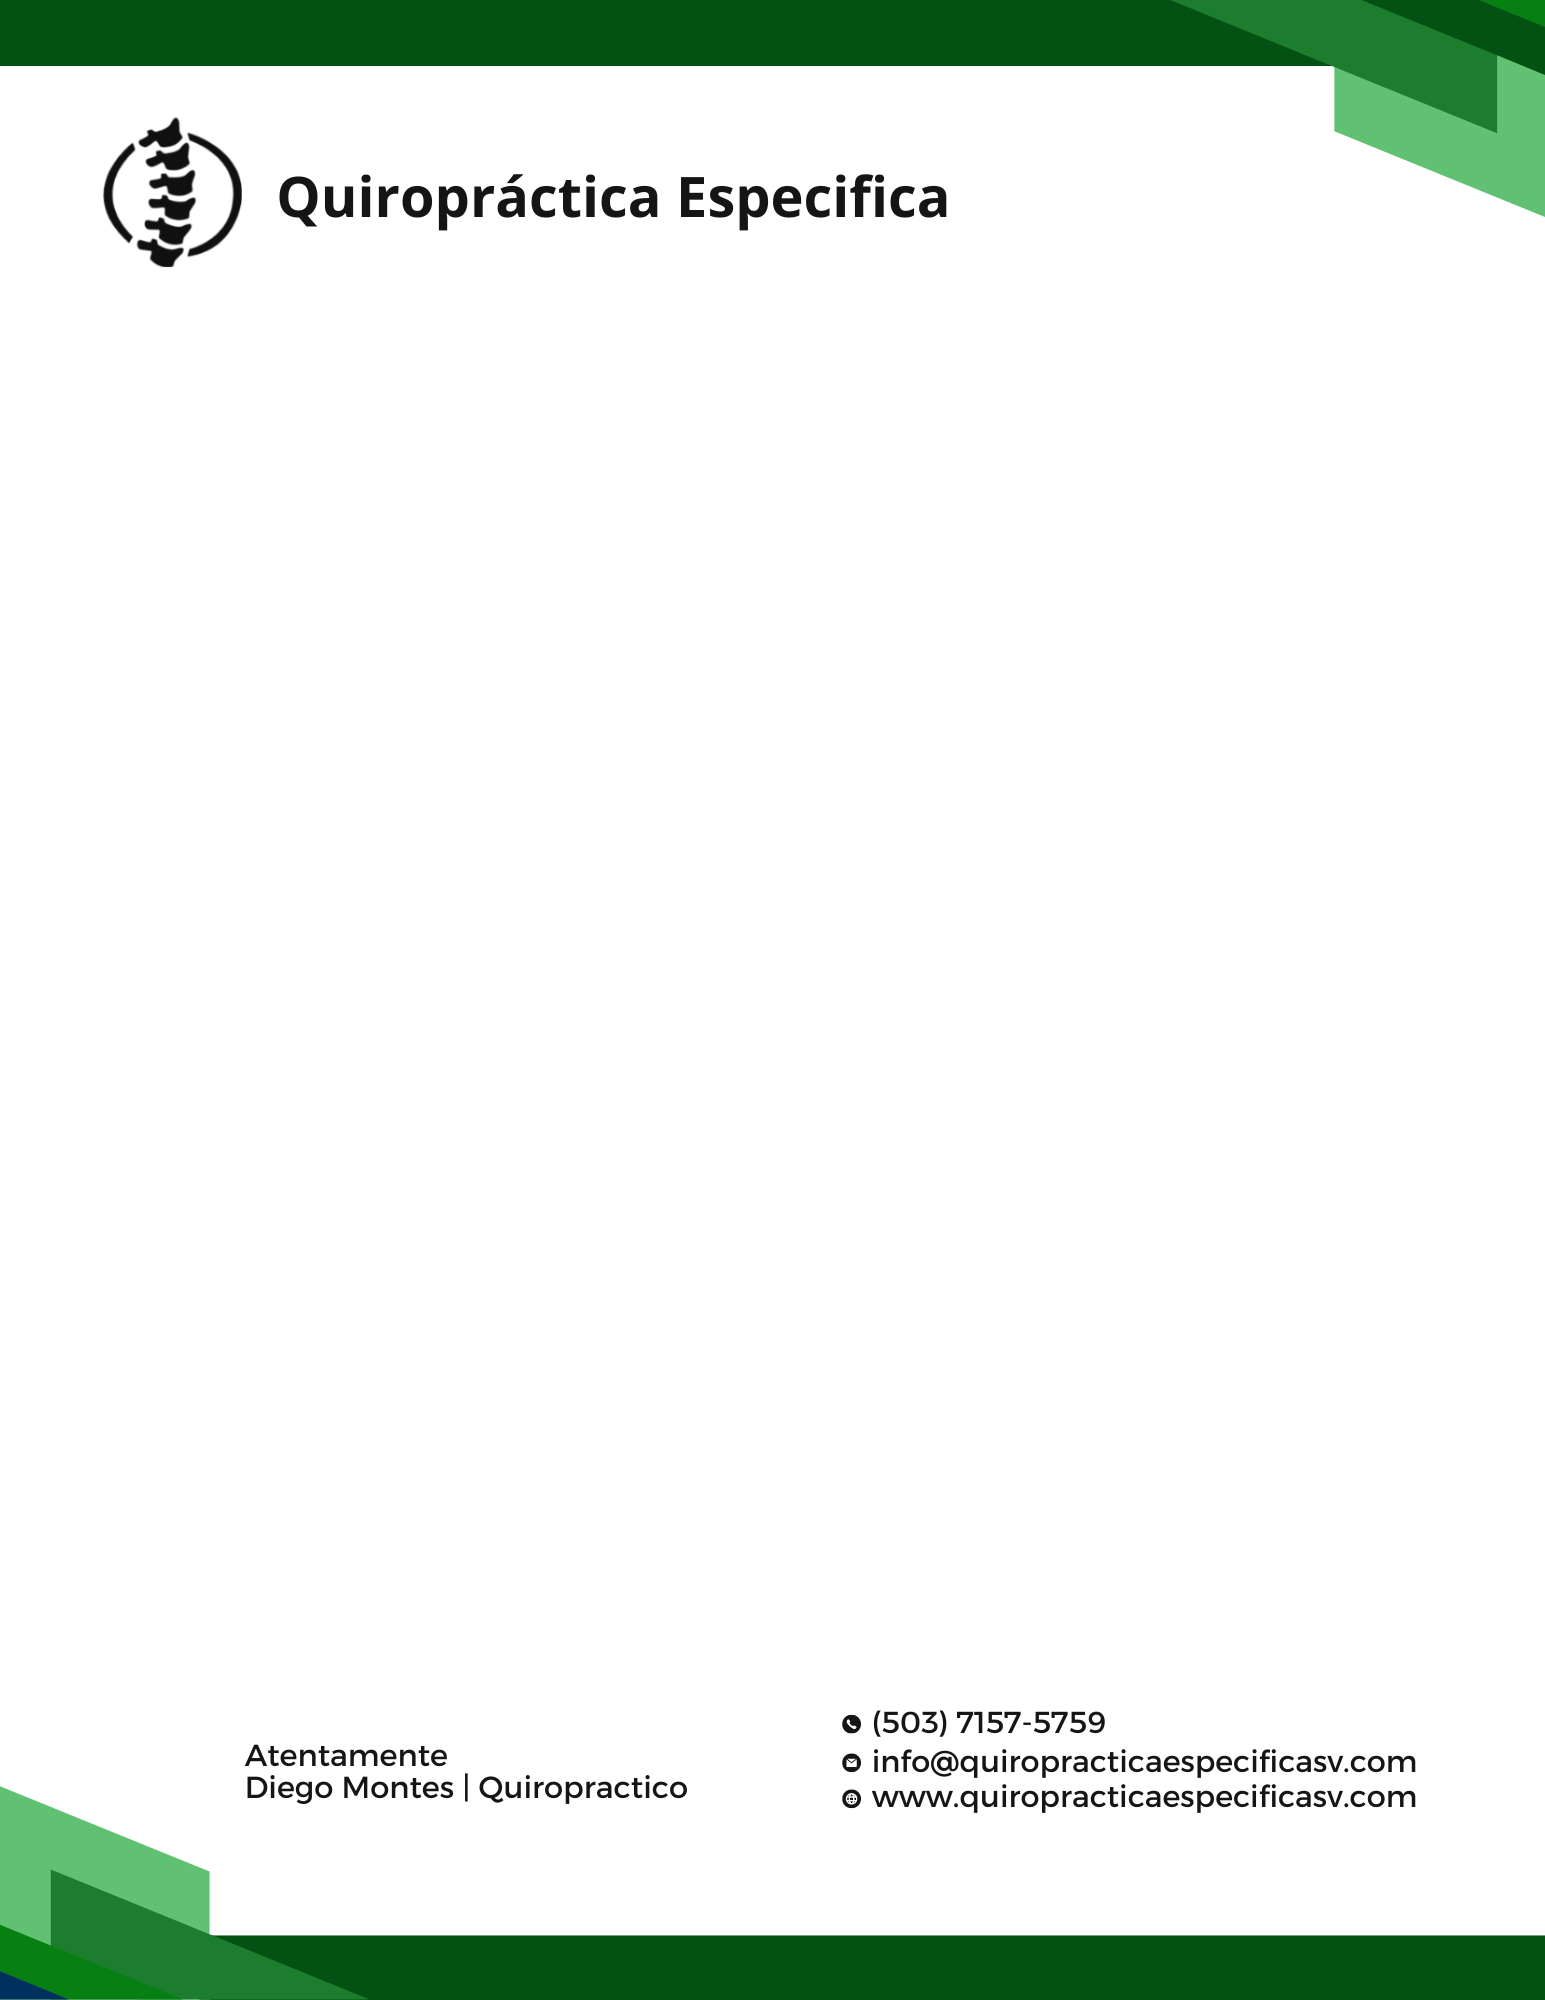
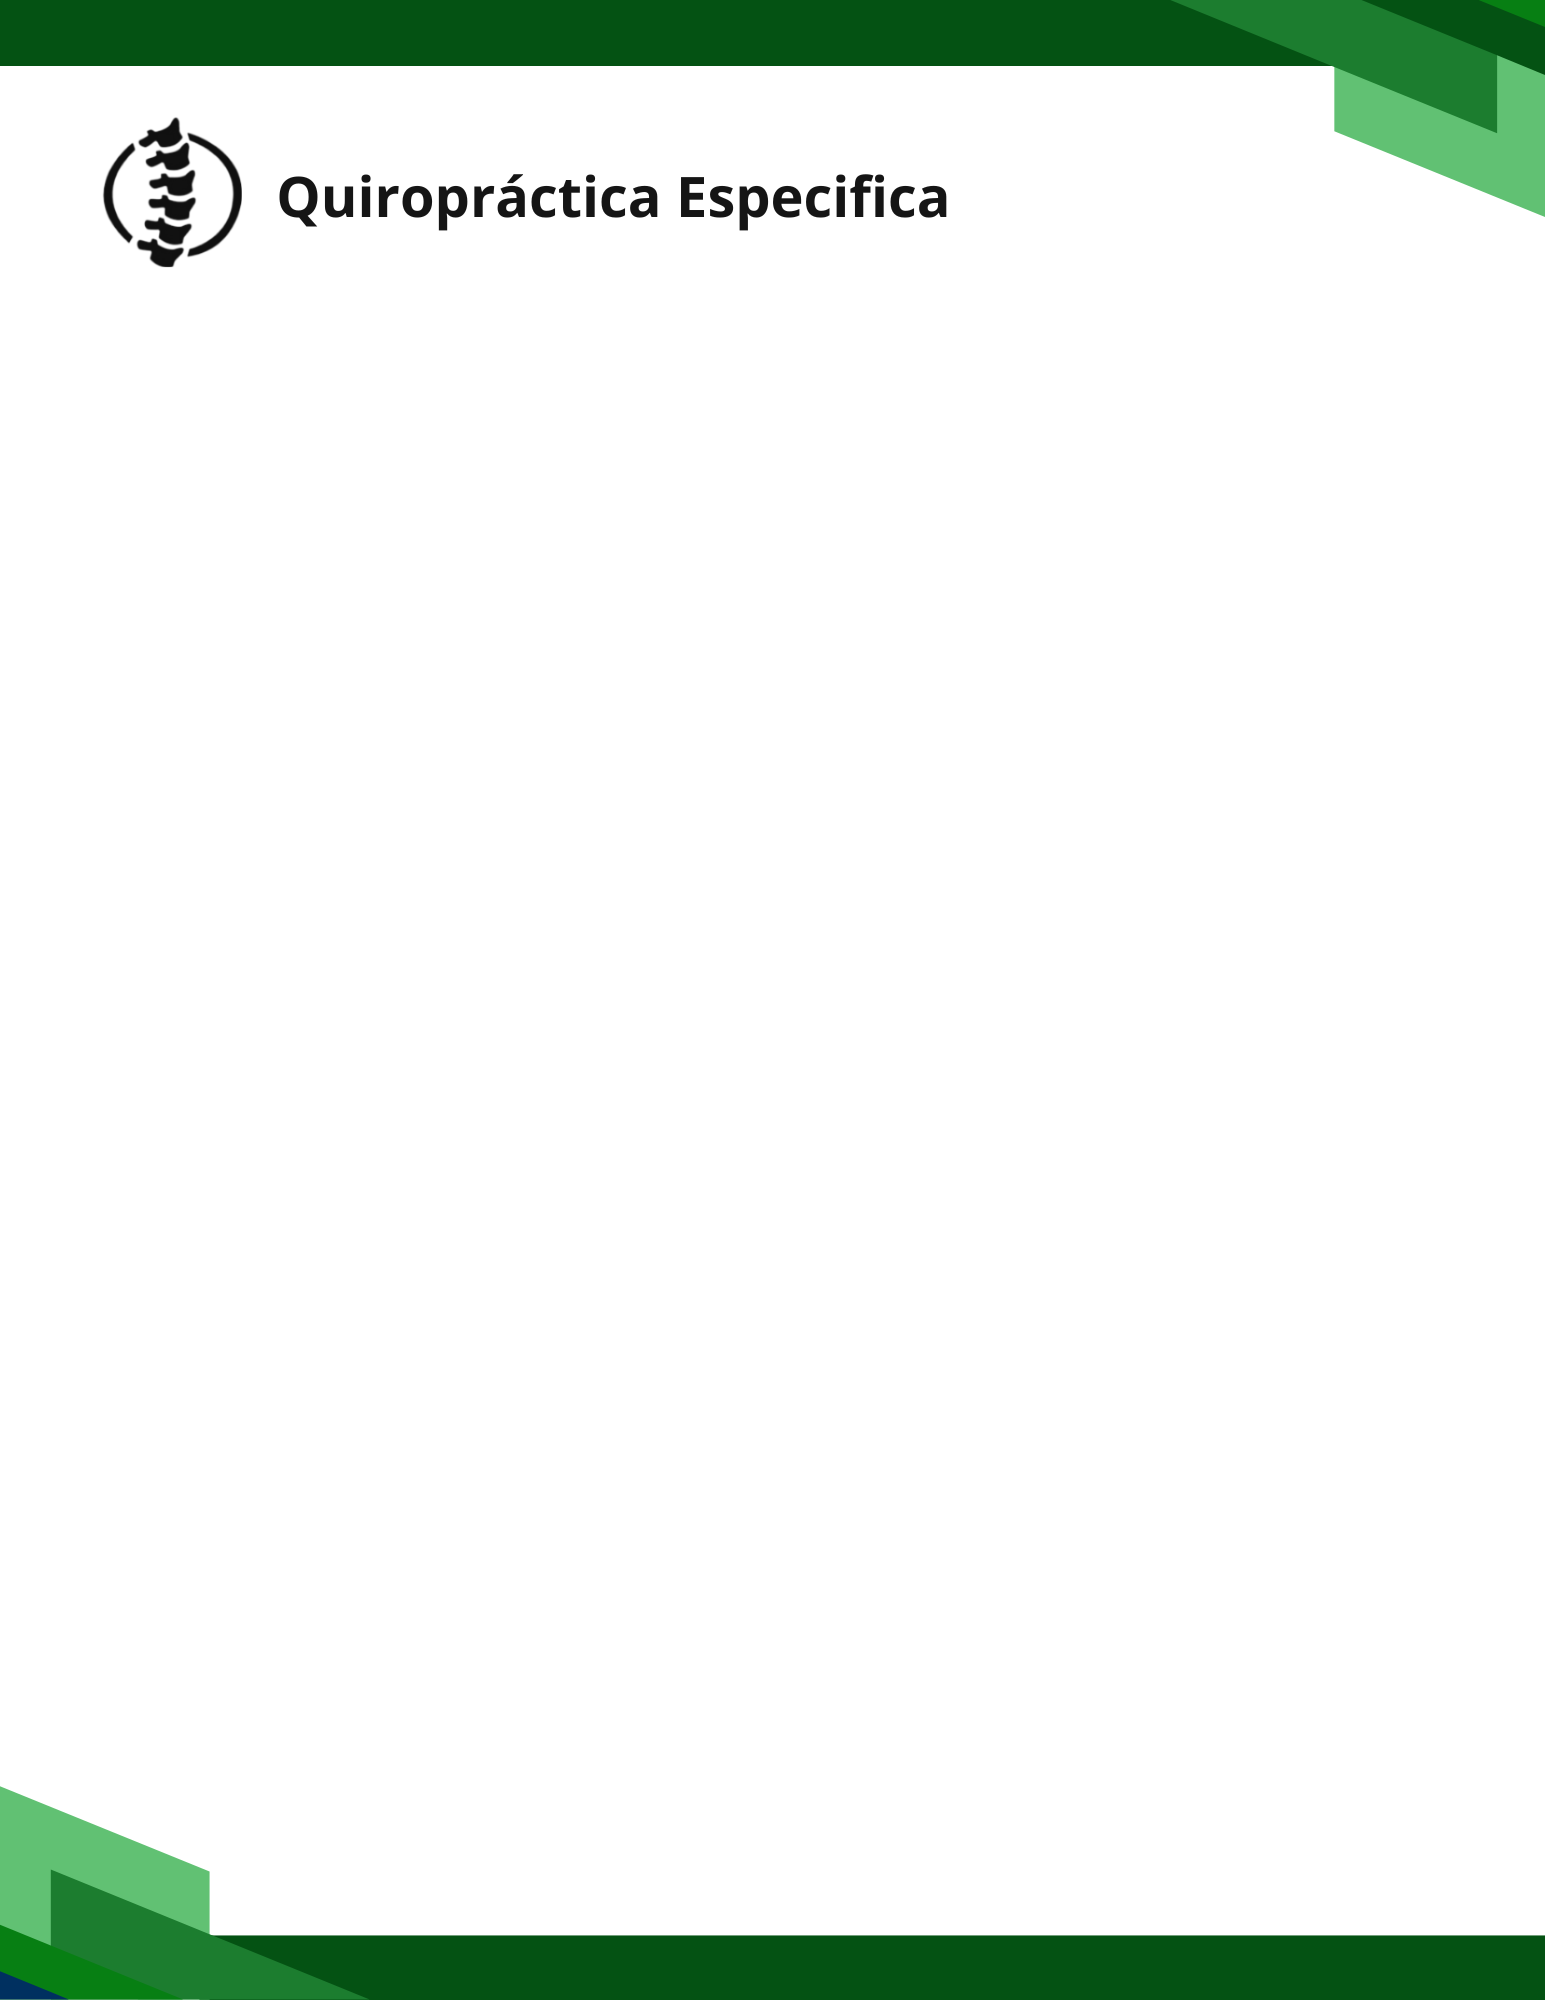
Cambios en diseño de reportes

Changed region(s): [[0.5282, 0.837, 0.932, 0.899], [0.1553, 0.868, 0.435, 0.899]]

diff --git a/api/helpers/report.php b/api/helpers/report.php
@@ -1,7 +1,7 @@
 <?php
 // Se incluye la clase para generar archivos PDF.
 require_once('../../libraries/fpdf185/fpdf.php');
- 
+
 /*
  *   Clase para definir las plantillas de los reportes del sitio privado.
  *   Para más información http://www.fpdf.org/
@@ -12,7 +12,7 @@ class Report extends FPDF
     const CLIENT_URL = 'http://localhost/expo_2024_v2/views/admin/';
     // Propiedad para guardar el título del reporte.
     private $title = null;
- 
+
     /*
      *   Método para iniciar el reporte con el encabezado del documento.
      *   Parámetros: $title (título del reporte).
@@ -36,7 +36,7 @@ class Report extends FPDF
             header('location:' . self::CLIENT_URL);
         }
     }
- 
+
     /*
      *   Método para codificar una cadena de alfabeto español a UTF-8.
      *   Parámetros: $string (cadena).
@@ -46,7 +46,7 @@ class Report extends FPDF
     {
         return mb_convert_encoding($string, 'ISO-8859-1', 'utf-8');
     }
- 
+
     /*
      *   Se sobrescribe el método de la librería para establecer la plantilla del encabezado de los reportes.
      *   Se llama automáticamente en el método addPage()
@@ -56,31 +56,31 @@ class Report extends FPDF
     {
         // Se establece el header.
         $this->image('../../images/Reporte.png', 0, 0, 216);
-   
+
         // Salto de línea para separar el encabezado de la imagen.
         $this->ln(24); // Ajuste el espacio entre la imagen y el texto del encabezado
-   
+
         // Configurar el texto "Asunto" en negrita y alineado a la izquierda.
         $this->setFont('Arial', 'B', 10);
         $this->cell(18, 10, 'Asunto: ', 0, 0, 'L'); // Alineado a la izquierda
-   
+
         // Configurar el título alineado a la izquierda.
         $this->setFont('Arial', '', 10);
         // Ajustar el ancho de la celda para que ocupe el resto del ancho de la página.
         $this->cell(0, 10, $this->encodeString($this->title), 0, 1, 'L');
-   
+
         // Configurar el texto "Fecha/Hora" en negrita y alineado a la izquierda.
         $this->setFont('Arial', 'B', 10); // Negrita
         $this->cell(18, 5, 'Fecha: ', 0, 0, 'L'); // Alineado a la izquierda
-       
+
         // Configurar la fecha y hora en texto normal.
         $this->setFont('Arial', '', 10);
         $this->cell(0, 5, date('d-m-Y H:i:s'), 0, 1, 'L'); // Alineado a la izquierda
-   
+
         // Asegurarse de que haya suficiente espacio antes de comenzar con el contenido.
         $this->ln(5); // Ajuste el espacio después del encabezado
     }
-   
+
     /*
      *   Se sobrescribe el método de la librería para establecer la plantilla del pie de los reportes.
      *   Se llama automáticamente en el método output()

diff --git a/api/Reports/Admin/empleados.php b/api/Reports/Admin/empleados.php
@@ -59,4 +59,3 @@ if ($dataEmpleados = $empleado->readAll()) {
  
 // Se llama implícitamente al método footer() y se envía el documento al navegador web.
 $pdf->output('I', 'Empleados.pdf');
-?>
